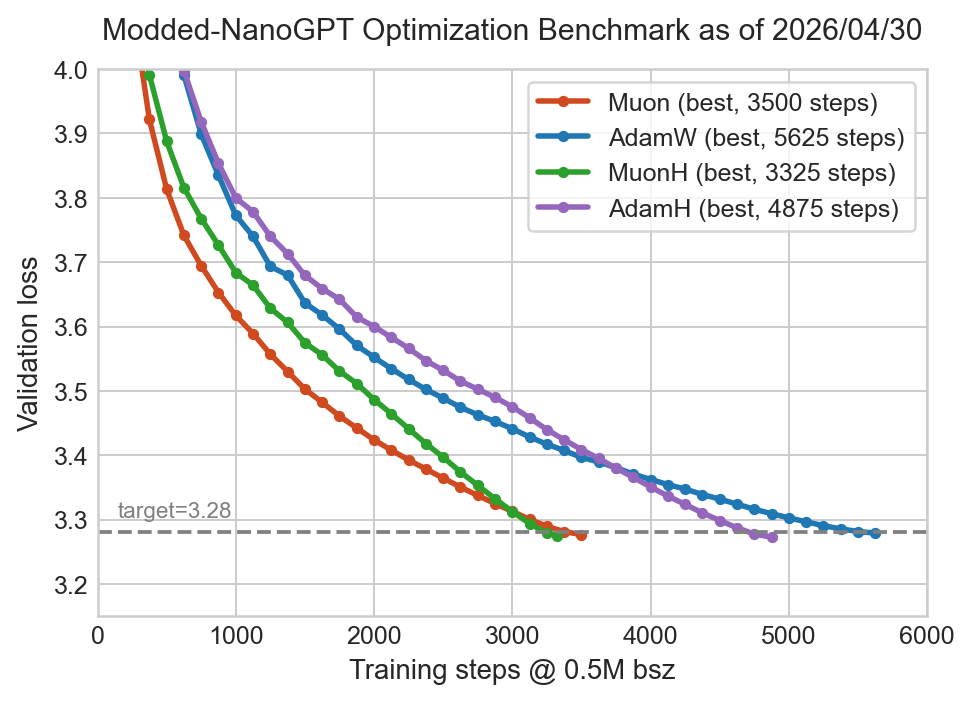
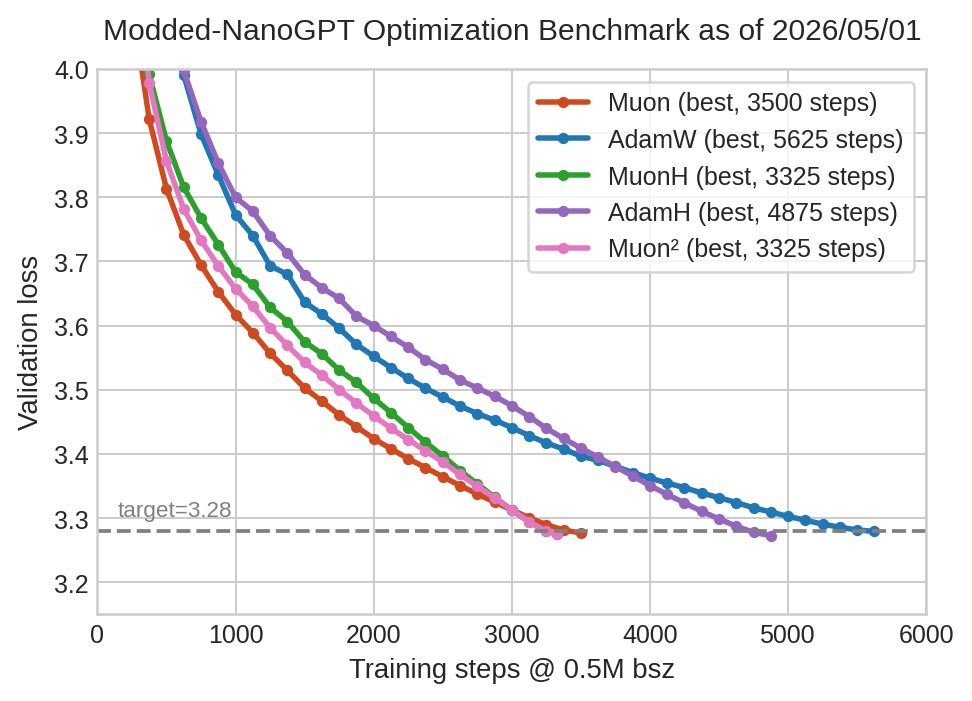
muon_sq

diff --git a/records/track_3_optimization/make_figure.py b/records/track_3_optimization/make_figure.py
@@ -6,6 +6,7 @@ runs = {
     'AdamW (best, 5625 steps)': ('a63a68d1-24aa-4a22-af9a-224e43209ea4', '#1f77b4'),
     'MuonH (best, 3325 steps)': ('20260430_muonh/9319c798-6643-464a-b407-b05468e468f5', '#2ca02c'),
     'AdamH (best, 4875 steps)': ('20260430_adamh/7533dd87-107f-4a4f-8229-acbec0fb00ac', '#9467bd'),
+    'Muon² (best, 3325 steps)': ('bb903816-ea27-4f5f-8028-c963d38c6a7f', '#e377c2'),
 }
 pattern = re.compile(r'step:(\d+)/(\d+)\s+val_loss:([0-9.]+)')
 out = 'figure.png'
@@ -50,7 +51,7 @@ ax.annotate(
     fontsize=9,
 )
 
-ax.set_title('Modded-NanoGPT Optimization Benchmark as of 2026/04/30', pad=12, fontsize=12)
+ax.set_title('Modded-NanoGPT Optimization Benchmark as of 2026/05/01', pad=12, fontsize=12)
 ax.set_xlabel('Training steps @ 0.5M bsz', fontsize=11)
 ax.set_ylabel('Validation loss', fontsize=11)
 ax.legend(frameon=True)

diff --git a/records/track_3_optimization/README.md b/records/track_3_optimization/README.md
@@ -28,6 +28,7 @@ Many more non-SOTA results (e.g., from hyperparameter sweeps) can be found in `r
 | 4 | 4875 | 3.2741 (n=5)✓ | [AdamH](https://psychedelic-sunstone-851.notion.site/Fantastic-Pretraining-Optimizers-and-Where-to-Find-Them-2-1-Hyperball-Optimization-2e924306e6f280e7a5ffee00eb40a0dd) (Adam preconditioning + hyperball constraint on hidden matrices) with per-module init std (attn.proj std=.026, mlp.proj std=.031, mlp.fc std=.031, qkv default), lr=.018 betas=(0.9, 0.95) warmup_steps=250 h_cooldown_frac=1.0 aux_cooldown_frac=.4 | 2026/04/30 | [log](results/20260430_adamh/7533dd87-107f-4a4f-8229-acbec0fb00ac.txt) | @kaiyue-wen |
 | 5 | 3325 | 3.2782 (n=10)✓ | [MuonH](https://psychedelic-sunstone-851.notion.site/Fantastic-Pretraining-Optimizers-and-Where-to-Find-Them-2-1-Hyperball-Optimization-2e924306e6f280e7a5ffee00eb40a0dd) (Muon + hyperball constraint on hidden matrices) with per-module init std (attn.proj std=.026, mlp.proj std=.031, mlp.fc std=.031, qkv default), lr=.018 h_cooldown_frac=1.0 aux_cooldown_frac=.4 | 2026/04/30 | [log](results/20260430_muonh/9319c798-6643-464a-b407-b05468e468f5.txt) | @kaiyue-wen |
 | 6 | 3375 | 3.2788 (n=20)✓ | [Muon](https://kellerjordan.github.io/posts/muon/) with aux Adam, lr=.025 wd=.025 | 2026/05/01 | [log](results/51ece938-03c5-4343-8dcc-3f3336b07008.txt) | @nilin, @alint77 |
+| 7 | 3325 | 3.2752 (n=1)✓ | [Muon²](https://arxiv.org/abs/2604.09967) with aux Adam, lr=.10 wd=.0125 β₂=.95 ε=1e-10 | 2026/04/29 | [log](results/bb903816-ea27-4f5f-8028-c963d38c6a7f.txt) | @wilsoncwu |
 
 <img width="60%" src="figure.png"/>
 
